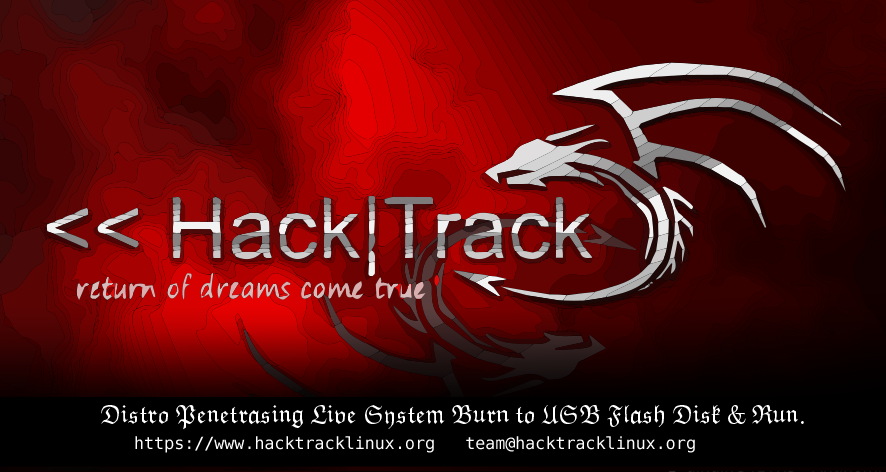
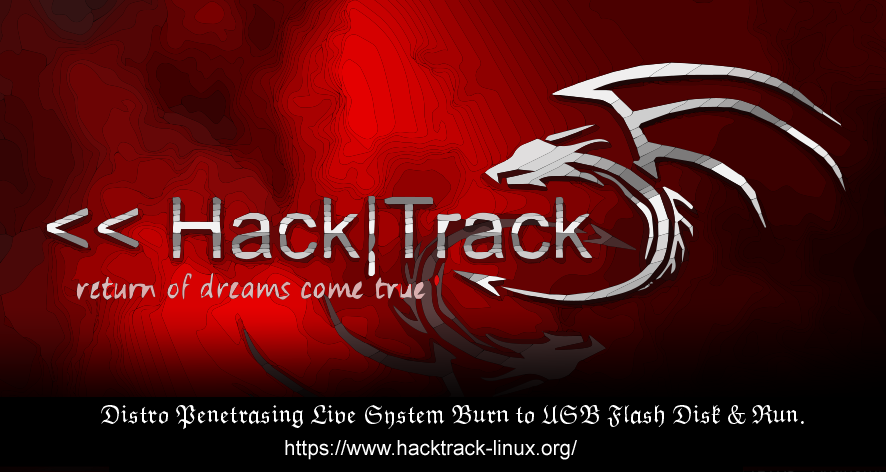
Pembaharuan (2026.1)

Changed region(s): [[0.1524, 0.9195, 0.7923, 1.0]]

diff --git a/asset/bash/hack-wellcome.py b/asset/bash/hack-wellcome.py
@@ -1,14 +1,16 @@
-#!/usr/bin/python
+#!/usr/bin/env python3
 import os
-import sys, traceback
-print ('''
+import sys
+import traceback
+
+print("""
 \033[1;31m   ____  _   _            _    _ _____               _    
   / / / | | | | __ _  ___| | _| |_   _| __ __ _  ___| | __
  / / /  | |_| |/ _` |/ __| |/ / | | || '__/ _` |/ __| |/ /
- \ \ \  |  _  | (_| | (__|   <| | | || | | (_| | (__|   < 
-  \_\_\ |_| |_|\__,_|\___|_|\_\ | |_||_|  \__,_|\___|_|\_\.\033[1;m
-  \033[1;37m"return of dreams come true"\033[1;m\033[1;31m|_|\033[1;m \033[1;37mVer. 2025.1 Revolution \033[1;m                
+ \\ \\ \\  |  _  | (_| | (__|   <| | | || | | (_| | (__|   < 
+  \\_\\_\\ |_| |_|\\__,_|\\___|_|\\_\\ | |_||_|  \\__,_|\\___|_|\\_\\.\033[1;m
+  \033[1;37m"https://www.hacktrack-linux.org"\033[1;m\033[1;31m|_|\033[1;m \033[1;37mVer. 2026.1 Revolution \033[1;m                
 ------------------------------------------------------------
 \033[1;37m[*] To start a graphical interface, type "\033[1;m\033[1;31mstartx\033[1;m\033[1;37m".\033[1;m
 \033[1;37m[*] The default root password is "\033[1;m\033[1;31mtoor\033[1;m\033[1;37m".\033[1;m
-		''')
+""")

diff --git a/asset/bash/hack-header.py b/asset/bash/hack-header.py
@@ -1,12 +1,14 @@
-#!/usr/bin/python
+#!/usr/bin/env python3
 import os
-import sys, traceback
-print ('''
+import sys
+import traceback
+
+print("""
 \033[1;31m   ____  _   _            _    _ _____               _    
   / / / | | | | __ _  ___| | _| |_   _| __ __ _  ___| | __
  / / /  | |_| |/ _` |/ __| |/ / | | || '__/ _` |/ __| |/ /
- \ \ \  |  _  | (_| | (__|   <| | | || | | (_| | (__|   < 
-  \_\_\ |_| |_|\__,_|\___|_|\_\ | |_||_|  \__,_|\___|_|\_\.\033[1;m
-  \033[1;37m"return of dreams come true"\033[1;m\033[1;31m|_|\033[1;m \033[1;37mVer. 2025.1 Revolution \033[1;m                
+ \\ \\ \\  |  _  | (_| | (__|   <| | | || | | (_| | (__|   < 
+  \\_\\_\\ |_| |_|\\__,_|\\___|_|\\_\\ | |_||_|  \\__,_|\\___|_|\\_\\.\033[1;m
+  \033[1;37m"https://www.hacktrack-linux.org"\033[1;m\033[1;31m|_|\033[1;m \033[1;37mVer. 2026.1 Revolution \033[1;m                
 ------------------------------------------------------------
-		''')
+""")
